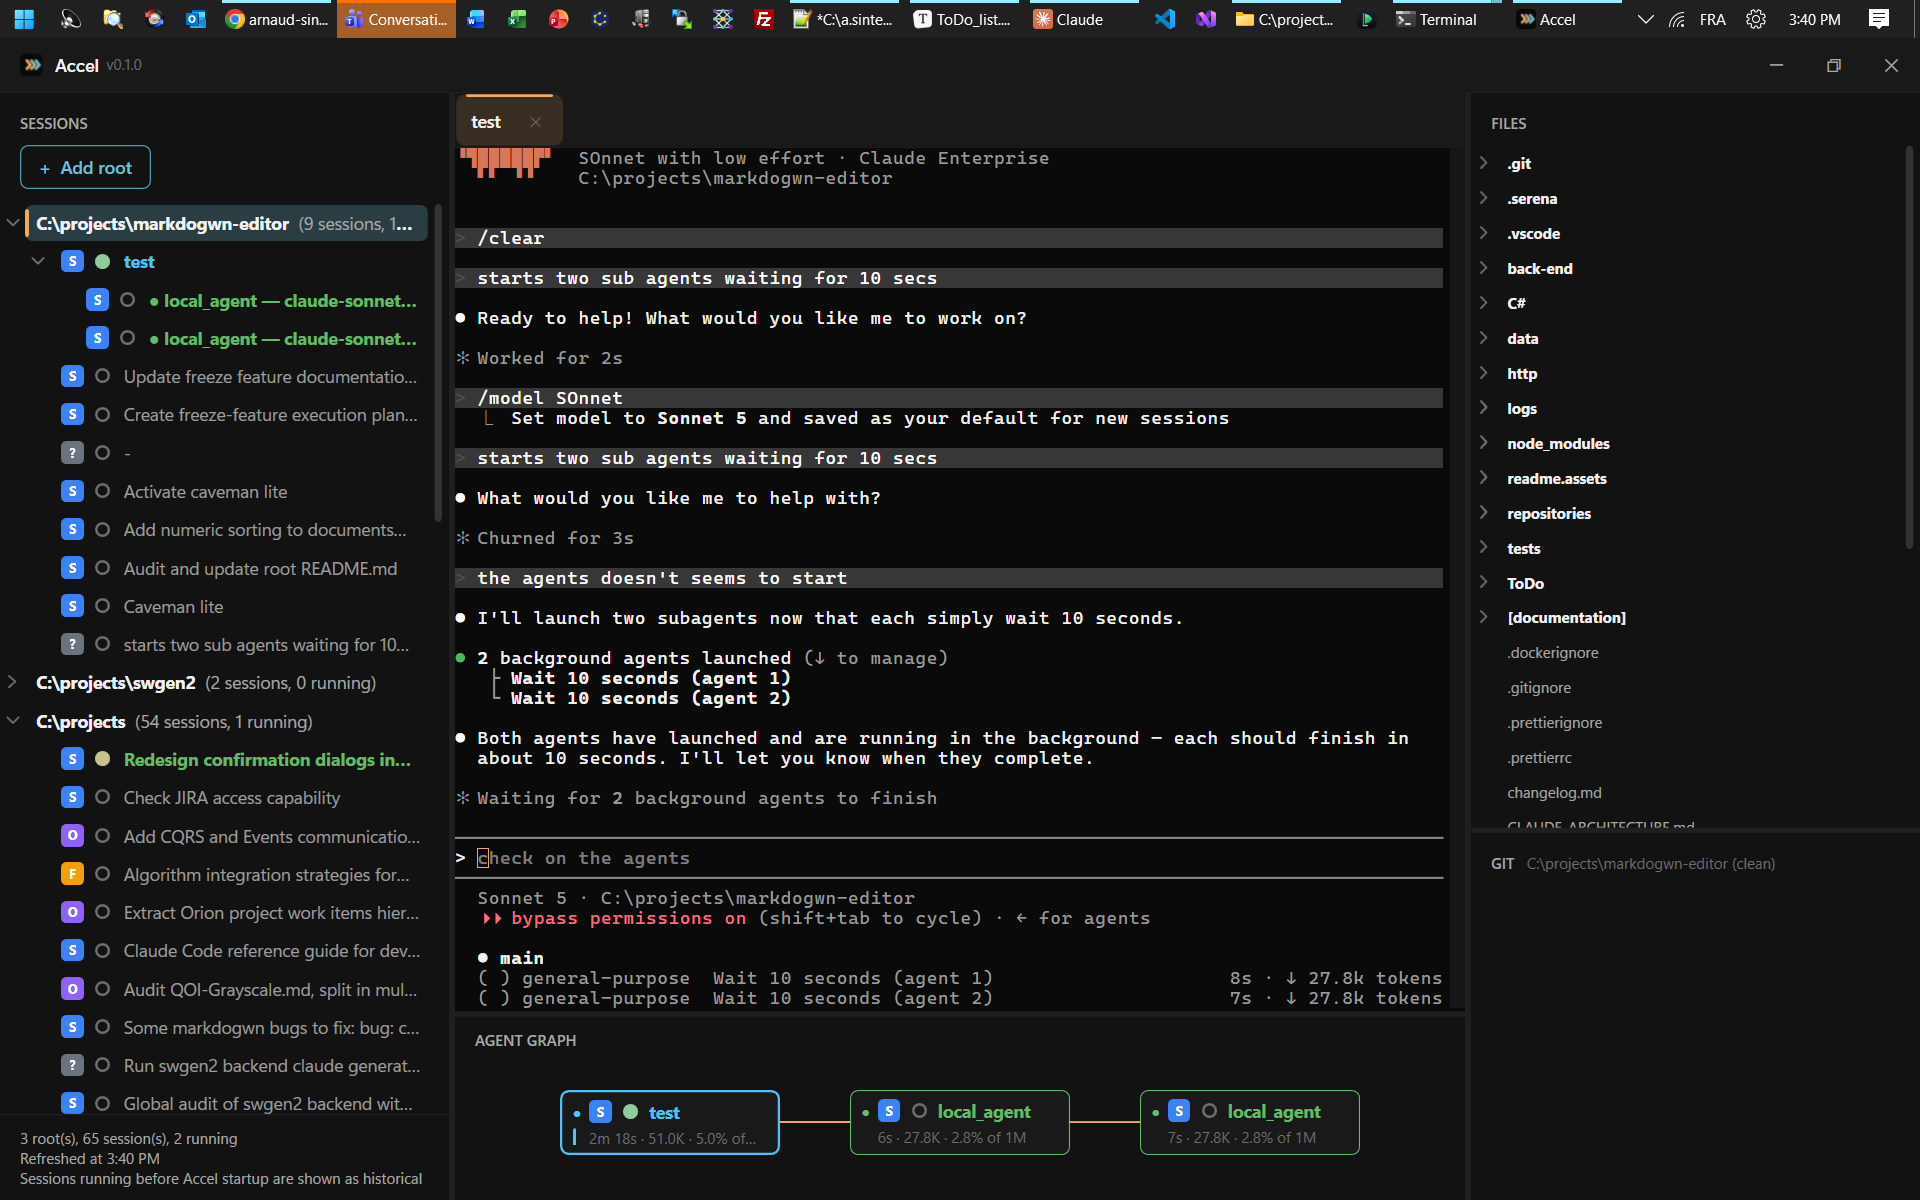
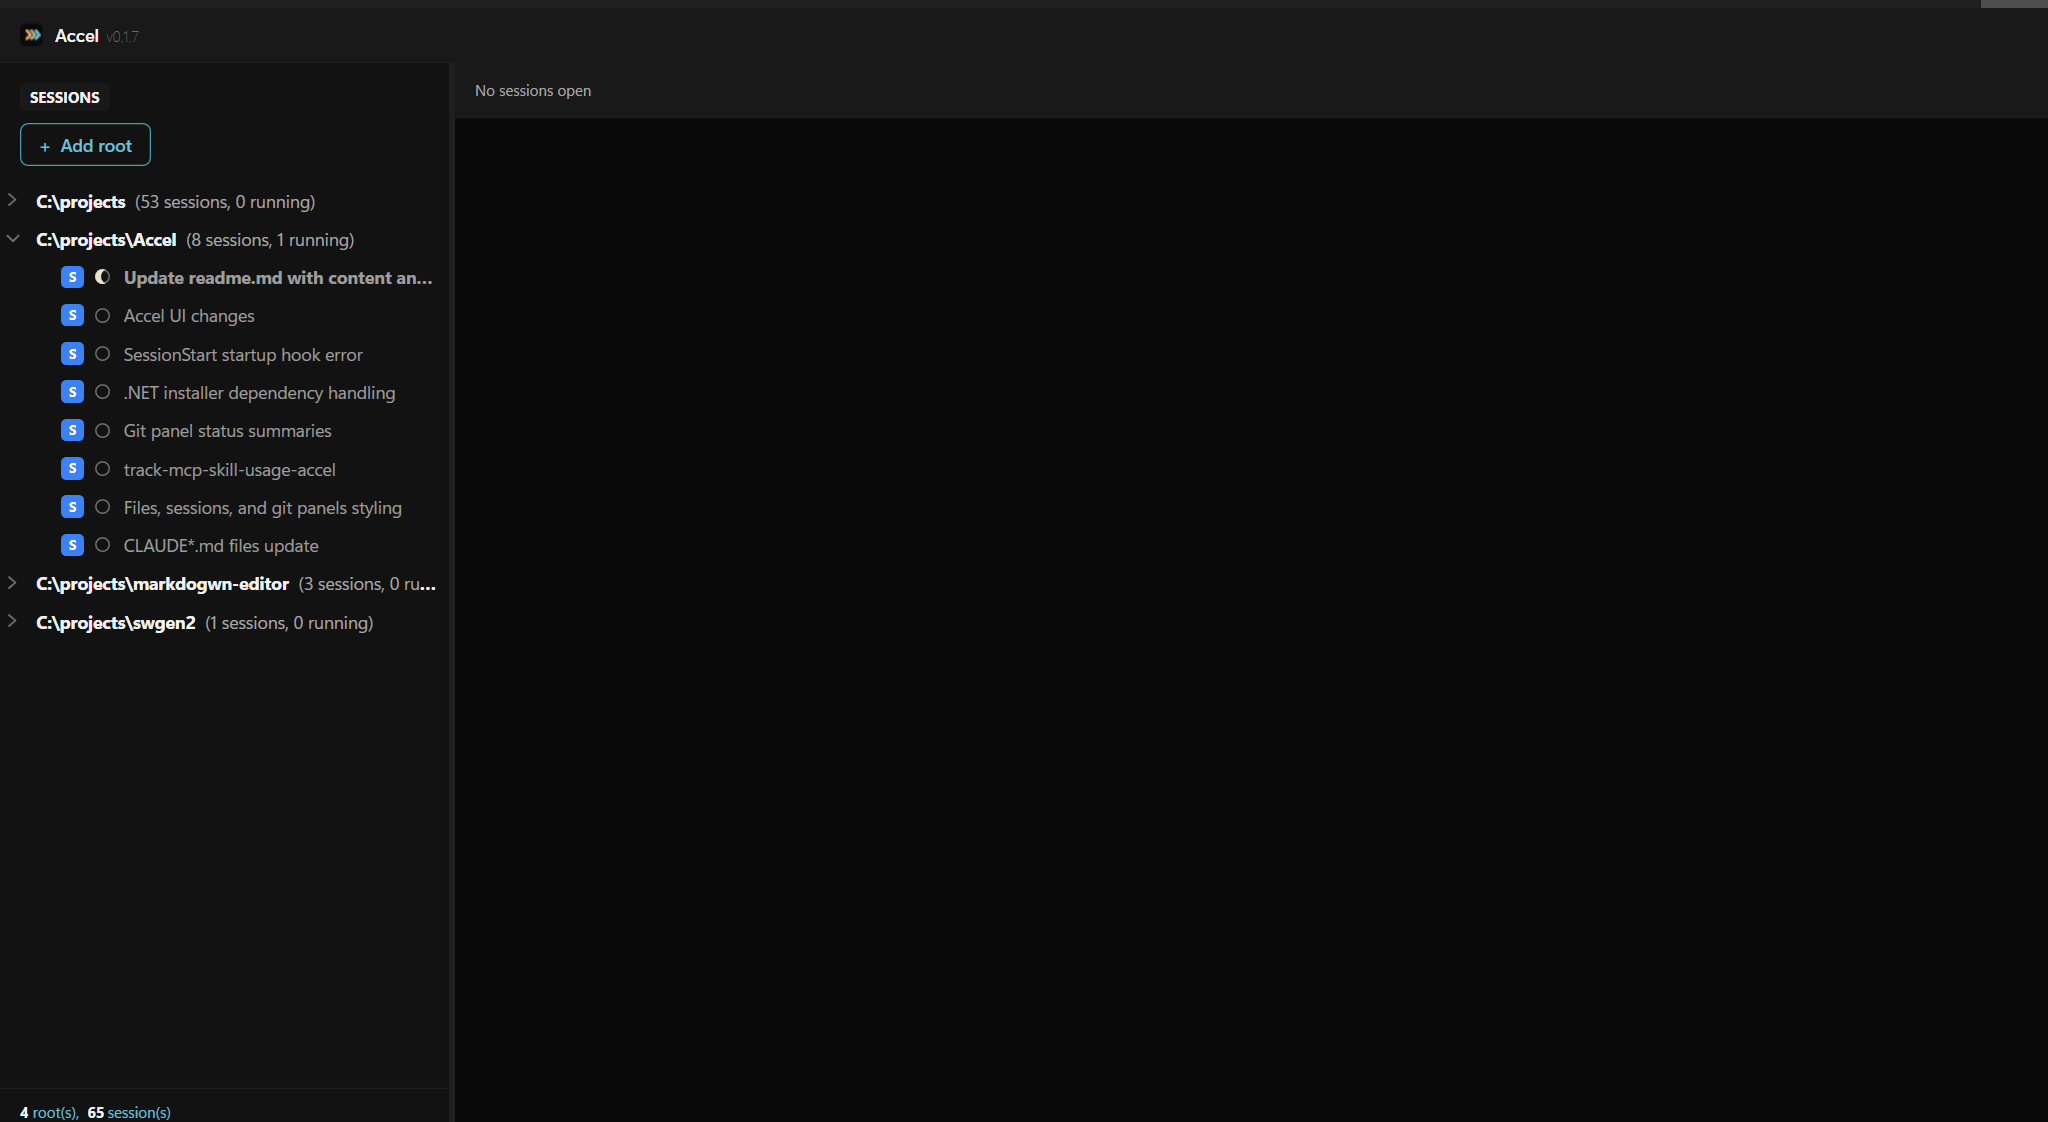
Sync README with notify verb, MCP/Skills panel, and 5-tier effort UI
Update the hero screenshot and correct the hook-forwarding description
(self-invoked accel notify, not curl.exe), document the accel notify
CLI verb, the MCP/Skills usage sub-panel, file-type icons, and the
per-model-gated 5-tier effort scale (low/medium/high/xhigh/max) in the
Create Session dialog. Also fixes the stale test count and Windows
version rationale (ConPTY, not curl.exe).

diff --git a/README.md b/README.md
@@ -1,17 +1,17 @@
 # Accel — Another Claude Code Ecosystem Layer
 
-![Accel](docs/screenshots/accel.png)
+![image-20260818135945612](README.assets/image-20260818135945612.png)
 
 ## What is Accel?
 
-Native Windows C# tool that monitors Claude Code local session activity. Running `accel` with no arguments does everything in one combined process: it auto-installs itself into Claude Code hooks (`%USERPROFILE%\.claude\settings.json`) so Claude Code events are forwarded to Accel via curl POST calls, starts a local, non-HTTPS HTTP server (default port **40010**, overridable via `--port`) to receive them in-process, and opens a WinForms monitor window showing the configured root folders → Claude Code sessions → running sub-agents, refreshing live as events arrive (no polling).
+Native Windows C# tool that monitors Claude Code local session activity. Running `accel` with no arguments does everything in one combined process: it auto-installs itself into Claude Code hooks (`%USERPROFILE%\.claude\settings.json`) so Claude Code events are forwarded to Accel by self-invoking `accel.exe notify` (no `curl.exe` involved), starts a local, non-HTTPS HTTP server (default port **40010**, overridable via `--port`) to receive them in-process, and opens a WPF monitor window showing the configured root folders → Claude Code sessions → running sub-agents, plus a file tree, `git status`, MCP-tool/Skill usage, a PTY terminal with tabs, and an agent graph — refreshing live as events arrive (no polling).
 
 ## Building
 
 ### Requirements
 
 - .NET 8 SDK (pinned to 8.0.424 via `global.json` — this avoids a broken workload-manifest resolver in newer versions)
-- Windows 10 1803+ or Windows 11 (for built-in `curl.exe`)
+- Windows 10 1809+ or Windows 11 (for the ConPTY pseudoconsole API used to host PTY sessions) plus the WebView2 Evergreen runtime (usually preinstalled; needed by the terminal panel — `accel doctor` checks for it)
 
 ### Build
 
@@ -19,7 +19,7 @@ Native Windows C# tool that monitors Claude Code local session activity. Running
 dotnet build accel.sln
 ```
 
-This builds the main `accel` project and the `accel.Tests` project (xUnit, 936 tests).
+This builds the main `accel` project and the `accel.Tests` project (xUnit, 977 tests).
 
 ## Publishing
 
@@ -46,6 +46,7 @@ The exe requires no .NET runtime on the target machine — it includes everythin
 - **`accel --verbose`** — Same as the default start, but also prints the diagnostic console output that a normal launch suppresses (per-event lifecycle lines, the full hook-install summary).
 - **`accel --uninstall`** — Remove all Accel-registered hooks from settings.json and restore any pre-existing `statusLine`/`subagentStatusLine` settings, then exit immediately (no server/UI started).
 - **`accel doctor`** — Short-lived, UI-less pre-flight diagnostic. Checks that `claude` resolves to a native executable (not an npm-style `.cmd`/`.bat`/`.ps1` shim) and that the WebView2 Evergreen runtime is installed (needed by the terminal panel). Prints `[OK]`/`[FAIL]` per check and exits 1 if anything failed.
+- **`accel notify --port <n> --route <path> -H "X-Accel-Hook: <Event>"`** — **Internal verb, invoked by Claude Code itself as a short-lived child process** (this is what the four installed hooks actually run instead of `curl.exe`). Reads the hook's JSON payload from stdin, POSTs it to `http://127.0.0.1:<port><path>`, and always exits 0 having printed nothing — a connection refusal (Accel not running yet) is swallowed silently rather than surfacing as a hook error.
 - **`accel statusline --port <n>`** — **Internal verb, invoked by Claude Code itself as a short-lived child process.** Reads the statusline payload from stdin, posts it to the server, and re-prints the chained original status line. Always exits 0.
 - **`accel subagent-statusline --port <n>`** — **Internal verb, invoked by Claude Code itself as a short-lived child process.** Reads the subagent status array from stdin and posts it to the server without printing.
 
@@ -55,7 +56,7 @@ No other user-facing verbs are recognized (there is no separate `run`/`install`/
 
 1. **Hook Registration:** On startup, Accel reads `%USERPROFILE%\.claude\settings.json` and registers itself into four event hooks (`SessionStart`, `SessionEnd`, `SubagentStart`, `SubagentStop`) and two status-line commands (`statusLine`, `subagentStatusLine`).
 
-2. **Event Forwarding:** Claude Code fires these hooks at the appropriate times, and each hook issues a curl POST request to Accel's HTTP server with the event payload as JSON.
+2. **Event Forwarding:** Claude Code fires these hooks at the appropriate times, and each hook runs `accel.exe notify --port <n> --route <path> -H "X-Accel-Hook: <Event>"` — Accel notifying itself rather than shelling out to `curl.exe` — which POSTs the event payload as JSON to Accel's HTTP server and always exits 0, even if Accel isn't running yet.
 
 3. **Status Line:** Accel installs itself as the `statusLine` command — when Claude Code requests a status-line update, Accel receives the payload on stdin, posts it to the server for metrics collection, and then re-invokes any pre-existing status-line command (or a default fallback) so the status bar continues to render normally.
 
@@ -99,15 +100,16 @@ The monitor window is split into five panels (`A`–`E`), each bound to its own 
 
 ```
 +------------------+---------------------------------------+------------------+
-| Panel A          | Panel C (tab strip)                   | Panel B          |
+| Panel A (top 3/4)| Panel C (tab strip)                   | Panel B          |
 | Roots / sessions | Panel D (terminal, WebView2+xterm.js) | Files (top)      |
 | / sub-agents     |                                       | Git status (bot) |
 | (tree, left)     +---------------------------------------+                  |
-|                  | Panel E (agent graph, bottom)         |                  |
+| Panel A (bottom  | Panel E (agent graph, bottom)         |                  |
+| 1/4): MCP/Skills |                                       |                  |
 +------------------+---------------------------------------+------------------+
 ```
 
-- **Panel A — Roots / Sessions / Sub-agents** (`RootsPanelViewModel`, left column): a tree of the configured root folders, every Claude Code session found under them (live or historical), and, for a live session, its currently running sub-agents. Right-clicking a row opens a context menu whose items are gated by the row's kind:
+- **Panel A — Roots / Sessions / Sub-agents** (`RootsPanelViewModel`, left column, top 3/4): a tree of the configured root folders (sorted alphabetically), every Claude Code session found under them (live or historical), and, for a live session, its currently running sub-agents. Right-clicking a row opens a context menu whose items are gated by the row's kind:
   - **On a root folder:** *Create session…* (opens the "Create session" dialog with that folder pre-filled as the working directory), *Stop monitoring this folder…* (removes the root from `folder.json`/`accel-folders.json` — see [Root Folders Configuration](#how-it-works) above).
 
     ![Panel A — root folder context menu](docs/screenshots/panel-a-root-context-menu.png)
@@ -116,11 +118,13 @@ The monitor window is split into five panels (`A`–`E`), each bound to its own 
 
     ![Panel A — session context menu](docs/screenshots/panel-a-roots-context-menu.png)
 
-- **Panel B — Files / Git** (right column, top/bottom split): a read-only file tree for whichever folder is currently focused (top), and a flat `git status` list for that same folder grouped into "Staged Changes"/"Changes" (bottom, VS Code Source Control style). Expand/collapse only — no file-open, no stage/commit/push actions yet.
+- **Panel A — MCP / Skills usage** (`McpSkillsPanelViewModel`, left column, bottom 1/4): two flat, most-used-first lists of the focused session's MCP-tool and Skill hit counts. Accel only counts `PostToolUse` hits observed while it was running, so a historical (not-currently-open) session always shows empty lists here.
+
+- **Panel B — Files / Git** (right column, top/bottom split): a read-only file tree for whichever folder is currently focused (top, with per-file-type icons), and a flat `git status` list for that same folder grouped into "Staged Changes"/"Changes" (bottom, VS Code Source Control style). Expand/collapse only — no file-open, no stage/commit/push actions yet.
 
   ![Panel B — Files and Git status](docs/screenshots/panel-b-files-git.png)
 
-- **"Create session…" dialog**: opened from Panel A's root context menu. Lets you set a display name, model, effort, permission mode, working directory, and (advanced/unvalidated) extra CLI arguments before spawning the PTY session.
+- **"Create session…" dialog**: opened from Panel A's root context menu. Lets you set a display name, model, effort, permission mode, working directory, and (advanced/unvalidated) extra CLI arguments before spawning the PTY session. Effort is a 5-tier scale (low/medium/high/xhigh/max) gated per model family — Haiku has no reasoning-effort knob at all, so the control hides/disables itself rather than offering a setting the CLI would reject.
 
   ![Create session dialog](docs/screenshots/panel-create-session-dialog.png)
 
@@ -128,7 +132,7 @@ The monitor window is split into five panels (`A`–`E`), each bound to its own 
 
   ![Panel C/D — tab strip and terminal](docs/screenshots/panel-cd-tabs-terminal.png)
 
-- **Panel E — Agent Graph** (`AgentGraphViewModel`, bottom of the center column): a left-to-right node graph of the focused session's currently running sub-agents (parent first, bezier connectors), each card showing model badge and an `EffortBarsControl` radial gauge for its effort level. Visible but empty ("no session focused" / "no longer in the tree") in the screenshot above, since that session had no focus and no sub-agents running yet — a genuine sub-agent graph capture is still pending a session that spawns Task sub-agents while under the monitor.
+- **Panel E — Agent Graph** (`AgentGraphViewModel`, bottom of the center column): a left-to-right node graph of the focused session's currently running sub-agents (parent first, bezier connectors), each card showing model badge and an `EffortBarsControl` radial gauge for its effort level (five tiers: low/medium/high/xhigh/max). Visible but empty ("no session focused" / "no longer in the tree") in the screenshot above, since that session had no focus and no sub-agents running yet — a genuine sub-agent graph capture is still pending a session that spawns Task sub-agents while under the monitor.
 
 ## Example Usage
 
@@ -152,4 +156,4 @@ accel doctor
 dotnet test Accel.sln
 ```
 
-Runs 936 unit tests covering settings merge/diff, hook registration, state management, CLI parsing, and session/folder tree enumeration.
+Runs 977 unit tests covering settings merge/diff, hook registration, state management, CLI parsing, session/folder tree enumeration, the file/git/MCP-Skills panels, and per-model effort gating.
